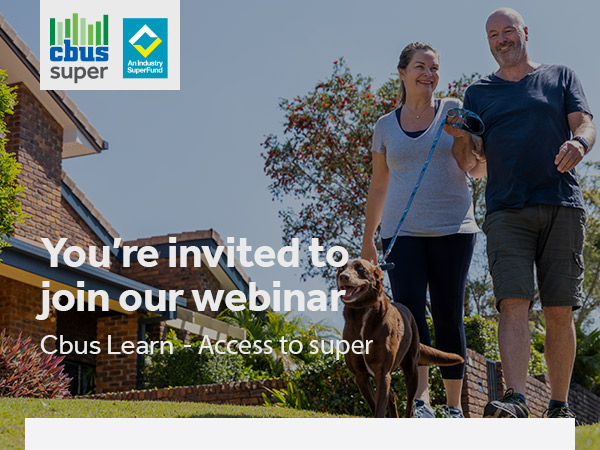
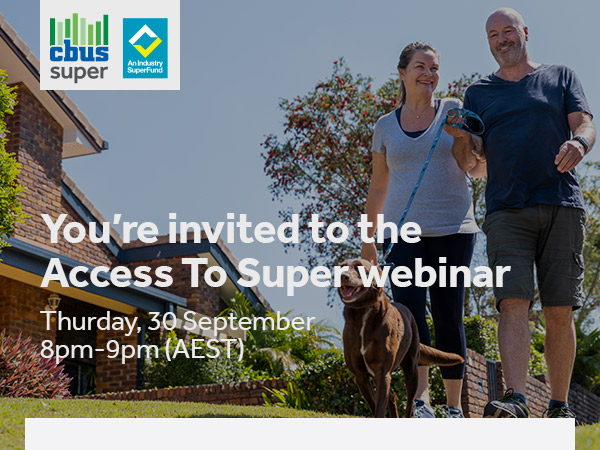
touch up on event emails

Changed region(s): [[0.06, 0.4667, 0.87, 0.8089]]

diff --git a/emails/templates/2022/cbus-event-single-topic/index.html b/emails/templates/2022/cbus-event-single-topic/index.html
@@ -368,21 +368,24 @@
             <div style="mso-line-height-rule: exactly;line-height: 14px;font-size: 1px;">&nbsp;</div>
           </div>
             <!-- Heading -->
-            <div style="Margin-left: 40px;Margin-right: 40px;">
+            <div style="Margin-top: 34px;Margin-left: 40px;Margin-right: 40px;">
               <div style="mso-line-height-rule: exactly;mso-text-raise: 11px;vertical-align: middle;">
-              <p class="size-36" style="Margin-top: 0;Margin-bottom: 20px;font-family:'Hind',Tahoma,Arial,sans-serif;font-style: normal;font-size:36px;font-weight: normal;color: #515457;font-size: 30px;line-height: 38px;">
+              <p class="size-36" style="Margin-top: 0;Margin-bottom: 8px;font-family:'Hind',Tahoma,Arial,sans-serif;font-style: normal;font-size:36px;font-weight: normal;color: #515457;font-size: 30px;line-height: 38px;">
                 <strong>Register now</strong>
               </p>
               </div>
           </div>
           <!-- Text -->
-          <div style="Margin-left: 40px;Margin-right: 40px;Margin-bottom: 24px;">
+          <div style="Margin-left: 40px;Margin-right: 40px;Margin-top: 8px;Margin-bottom: 14px;">
             <div style="mso-line-height-rule: exactly;mso-text-raise: 11px;vertical-align: middle;">
-              <p class="size-22" style="Margin-top: 0;Margin-bottom: 0;">
+              <p class="size-22" style="Margin-top: 0;Margin-bottom: 20px;color:#a8a8a8;">
+                30 September, 8pm - 9pm (AEST)
+              </p>
+              <p class="size-22" style="Margin-top: 0;Margin-bottom: 0;font-size: 18px;line-height: 26px;text-align: left;" lang="x-size-22">
                 Join us for a 30-minute webinar where we break down the budget and proposed changes to super.
               </p>
             </div>
-        </div>
+          </div>
 
           <!-- Button Date -->
           <div style="Margin-left: 40px;Margin-right: 40px;Margin-bottom: 10px;">
@@ -395,7 +398,7 @@
                           <tbody><tr>
                               <td style="width: 206px;height: 55px;background: #0F8045;border-radius: 4px;font-family: Hind,Calibri,Arial,sans-serif; font-size: 17px;line-height: 21px;text-align:center;">
                                 <a target="_blank" href="https://www.cbussuper.com.au/" style="text-decoration: none; color: #fff; display: inline-block; border-top: 10px solid #0F8045; border-bottom: 10px solid #0F8045; border-right: 5px solid #0F8045;border-left: 5px solid #0F8045;">
-                                  <strong>10 NOV </strong> 7:30pm
+                                  <strong>30 SEP </strong> 8pm
                                 </a>
                               </td>
                           </tr>

diff --git a/emails/templates/2022/cbus-event-profile/index.html b/emails/templates/2022/cbus-event-profile/index.html
@@ -126,10 +126,21 @@
     </div>
   <!--[if (mso)|(IE)]></td><td style="width: 400px" valign="top" class="w360"><![endif]-->
     <div class="column wide" style="text-align: left;color: #454545;font-size: 18px;line-height: 26px;font-family: Hind,Calibri,Arial,sans-serif;Float: left;max-width: 400px;min-width: 320px; width: 320px;width: calc(8000% - 47600px);">
-
+         
+      <!-- Heading -->
+        <div style="Margin-top: 34px;Margin-left: 40px;Margin-right: 40px;">
+          <div style="mso-line-height-rule: exactly;mso-text-raise: 11px;vertical-align: middle;">
+          <p class="size-36" style="Margin-top: 0;Margin-bottom: 8px;font-family:'Hind',Tahoma,Arial,sans-serif;font-style: normal;font-size:36px;font-weight: normal;color: #515457;font-size: 30px;line-height: 38px;">
+            <strong>Register now</strong>
+          </p>
+          </div>
+      </div>
       <!-- Text -->
-      <div style="Margin-left: 40px;Margin-right: 40px;Margin-top: 34px;Margin-bottom: 14px;">
+      <div style="Margin-left: 40px;Margin-right: 40px;Margin-top: 8px;Margin-bottom: 14px;">
         <div style="mso-line-height-rule: exactly;mso-text-raise: 11px;vertical-align: middle;">
+          <p class="size-22" style="Margin-top: 0;Margin-bottom: 20px;color:#a8a8a8;">
+            30 September, 8pm - 9pm (AEST)
+          </p>
         <p class="size-22" style="Margin-top: 0;Margin-bottom: 0;font-size: 18px;line-height: 26px;text-align: left;" lang="x-size-22">
           Hosted by <strong>Jeff Gray</strong>,<br/>Senior Consultant, Workplace Services.
         </p>
@@ -147,7 +158,7 @@
                       <tbody><tr>
                           <td style="width: 206px;height: 55px;background: #0F8045;border-radius: 4px;font-family: Hind,Calibri,Arial,sans-serif; font-size: 17px;line-height: 21px;text-align:center;">
                             <a target="_blank" href="https://www.cbussuper.com.au/" style="text-decoration: none; color: #fff; display: inline-block; border-top: 10px solid #0F8045; border-bottom: 10px solid #0F8045; border-right: 5px solid #0F8045;border-left: 5px solid #0F8045;">
-                              <strong>10 NOV </strong> 7:30pm
+                              <strong>30 SEP </strong> 8pm
                             </a>
                           </td>
                       </tr>

diff --git a/emails/2022/member-retention/sis-acquisition-april/1-callback/index.html b/emails/2022/member-retention/sis-acquisition-april/1-callback/index.html
@@ -301,7 +301,7 @@
             <div class="sm-hide" style="Margin-top: 24px;font-size: 12px;font-style: normal;font-weight: normal;line-height: 19px;Margin-bottom: 20px;" align="center">
               <img style="border: 0;display: block;height: auto;width: 100%;max-width: 550px;" 
                   alt="Money magazine's & Canstar Winner." width="550" 
-                  src="https://res.marketing.cbussuper.com.au/res/cbus_mkt_prod1/c8ced4c49c5a1592a07d00c50e4439c4457c352b4274b6c4d8d51554ae05a725.png">
+                  src="https://res.marketing.cbussuper.com.au/res/cbus_mkt_prod1/dcaa6b7d87126d51d425b9d42cc7fcd109e38cfab929b200795d470637915602.png">
             </div>
       
       

diff --git a/emails/2022/member-retention/sis-acquisition-april/3-webinar-attendees/index.html b/emails/2022/member-retention/sis-acquisition-april/3-webinar-attendees/index.html
@@ -295,7 +295,7 @@
             <div class="sm-hide" style="Margin-top: 24px;font-size: 12px;font-style: normal;font-weight: normal;line-height: 19px;Margin-bottom: 20px;" align="center">
               <img style="border: 0;display: block;height: auto;width: 100%;max-width: 550px;" 
                   alt="Money magazine's & Canstar Winner." width="550" 
-                  src="https://res.marketing.cbussuper.com.au/res/cbus_mkt_prod1/c8ced4c49c5a1592a07d00c50e4439c4457c352b4274b6c4d8d51554ae05a725.png">
+                  src="https://res.marketing.cbussuper.com.au/res/cbus_mkt_prod1/dcaa6b7d87126d51d425b9d42cc7fcd109e38cfab929b200795d470637915602.png">
             </div>
       
       

diff --git a/emails/2022/member-retention/sis-acquisition-april/4a-high-balance/index.html b/emails/2022/member-retention/sis-acquisition-april/4a-high-balance/index.html
@@ -296,7 +296,7 @@
             <div class="sm-hide" style="Margin-top: 24px;font-size: 12px;font-style: normal;font-weight: normal;line-height: 19px;Margin-bottom: 20px;" align="center">
               <img style="border: 0;display: block;height: auto;width: 100%;max-width: 550px;" 
                   alt="Money magazine's & Canstar Winner." width="550" 
-                  src="https://res.marketing.cbussuper.com.au/res/cbus_mkt_prod1/c8ced4c49c5a1592a07d00c50e4439c4457c352b4274b6c4d8d51554ae05a725.png">
+                  src="https://res.marketing.cbussuper.com.au/res/cbus_mkt_prod1/dcaa6b7d87126d51d425b9d42cc7fcd109e38cfab929b200795d470637915602.png">
             </div>
       
       

diff --git a/emails/2022/member-retention/sis-acquisition-april/4b-high-balance/index.html b/emails/2022/member-retention/sis-acquisition-april/4b-high-balance/index.html
@@ -371,7 +371,7 @@
             <div class="sm-hide" style="Margin-top: 24px;font-size: 12px;font-style: normal;font-weight: normal;line-height: 19px;Margin-bottom: 20px;" align="center">
               <img style="border: 0;display: block;height: auto;width: 100%;max-width: 550px;" 
                   alt="Money magazine's & Canstar Winner." width="550" 
-                  src="https://res.marketing.cbussuper.com.au/res/cbus_mkt_prod1/c8ced4c49c5a1592a07d00c50e4439c4457c352b4274b6c4d8d51554ae05a725.png">
+                  src="https://res.marketing.cbussuper.com.au/res/cbus_mkt_prod1/dcaa6b7d87126d51d425b9d42cc7fcd109e38cfab929b200795d470637915602.png">
             </div>
       
       

diff --git a/emails/2022/member-retention/sis-acquisition-april/5-ttr/index.html b/emails/2022/member-retention/sis-acquisition-april/5-ttr/index.html
@@ -240,7 +240,7 @@
             <div class="sm-hide" style="Margin-top: 24px;font-size: 12px;font-style: normal;font-weight: normal;line-height: 19px;Margin-bottom: 20px;" align="center">
               <img style="border: 0;display: block;height: auto;width: 100%;max-width: 550px;" 
                   alt="Money magazine's & Canstar Winner." width="550" 
-                  src="https://res.marketing.cbussuper.com.au/res/cbus_mkt_prod1/c8ced4c49c5a1592a07d00c50e4439c4457c352b4274b6c4d8d51554ae05a725.png">
+                  src="https://res.marketing.cbussuper.com.au/res/cbus_mkt_prod1/dcaa6b7d87126d51d425b9d42cc7fcd109e38cfab929b200795d470637915602.png">
             </div>
       
       
